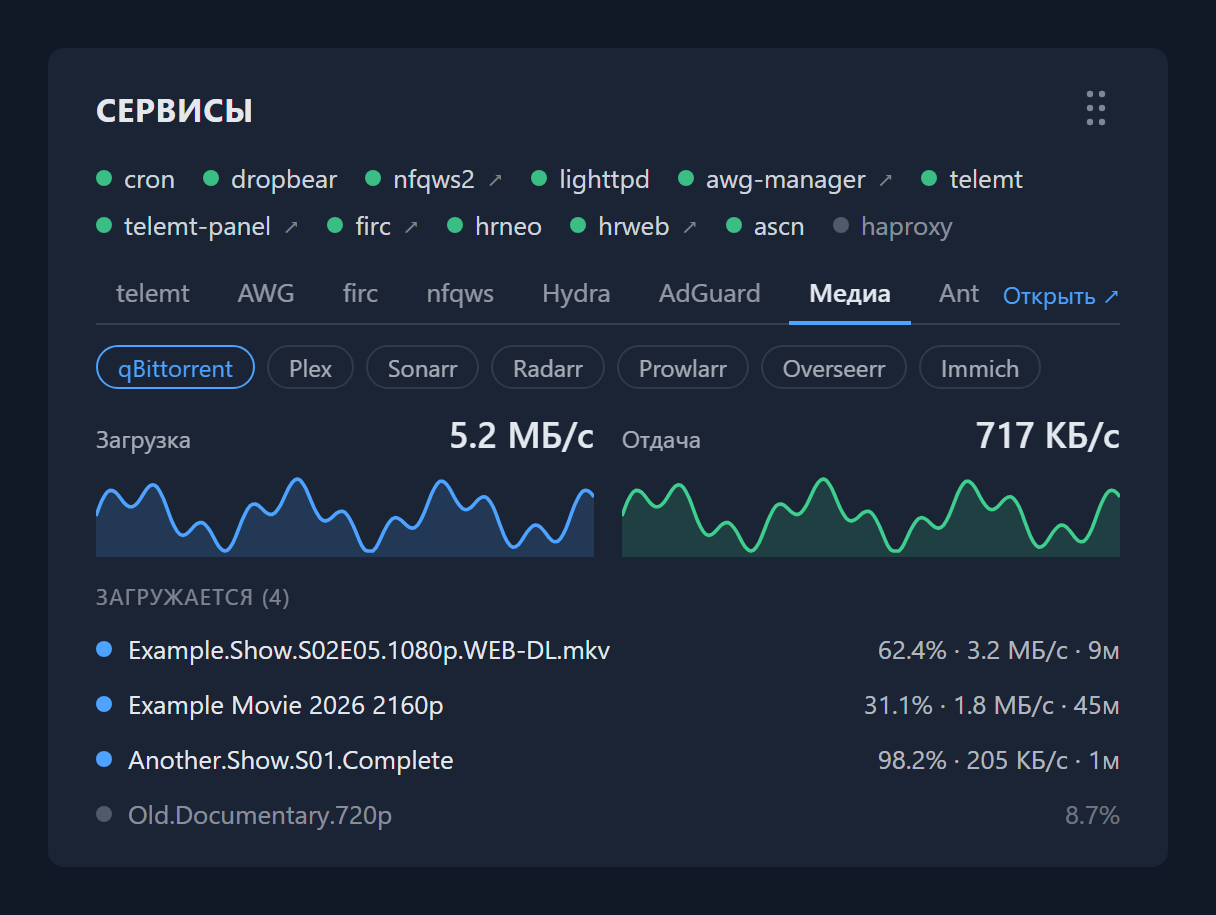
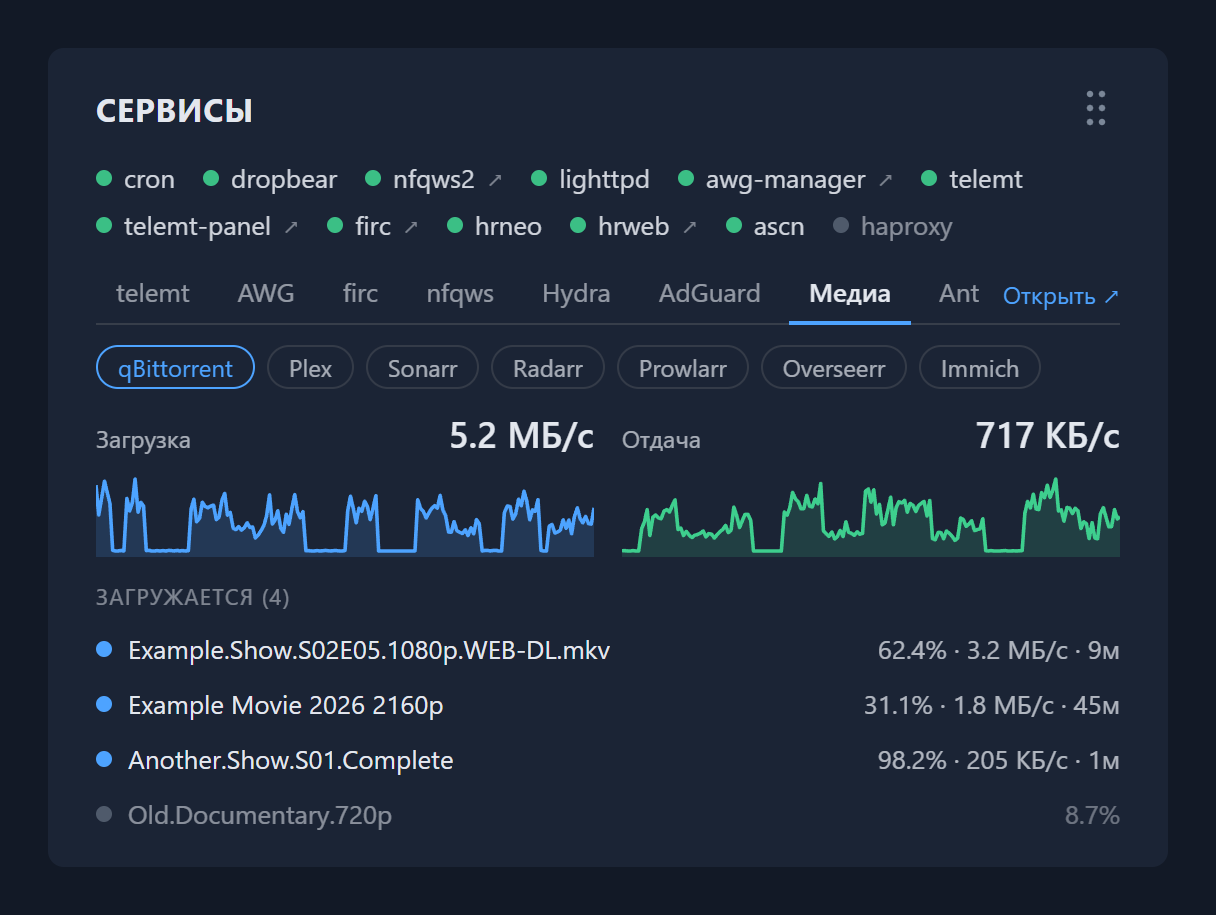
README: Frigate frames, realistic charts

diff --git a/README.md b/README.md
@@ -12,7 +12,7 @@
 - страница «Сервисы» (пункт в меню под «Системным монитором»): все карточки сразу, группы, ширина, сворачивание;
 - проверка новой версии и обновление кнопкой на карточке.
 
-<img src="docs/page.png" width="800" alt="Страница «Сервисы»: группа «Дом» с Home Assistant, Frigate и Uptime Kuma, карточки разной ширины, доступность сайтов">
+<img src="docs/page.png" width="800" alt="Страница «Сервисы»: группа «Дом» с Frigate и кадрами двух камер, Home Assistant и Uptime Kuma, карточки разной ширины, доступность сайтов">
 
 <details>
 <summary>Ещё изображения</summary>
